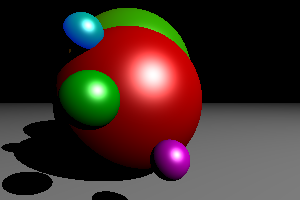
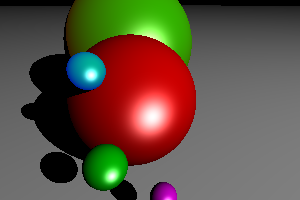
perspective change

diff --git a/raytracer_thoramature.py b/raytracer_thoramature.py
@@ -72,20 +72,35 @@ def nearest_intersected_object(objects, ray_origin, ray_direction):
     return nearest_object, min_distance
 
 class Camera:
-    def __init__(self, angle, ratio):
-        self.h = math.tan(angle / 2)
+    def __init__(self, angle, ratio, lookfrom, lookat, vup):
+        self.h = math.tan(math.radians(angle) / 2)
         # self.viewport_height = ratio * self.h
-        self.viewport_height = 1.0
+        self.viewport_height = 1.0 
         self.viewport_width = self.viewport_height * ratio
         self.focal_length = 1.0
 
-        self.origin = np.array([0,0,1])
-        self.horizontal = np.array([self.viewport_width, 0, 0])
-        self.vertical = np.array([0, self.viewport_height, 0])
-        self.lowerlc = self.origin - self.horizontal/2 - self.vertical/2 - np.array([0,0,self.focal_length])
+        # self.origin = np.array([0,0,1])
+        # self.horizontal = np.array([self.viewport_width, 0, 0])
+        # self.vertical = np.array([0, self.viewport_height, 0])
+        # self.lowerlc = self.origin - self.horizontal/2 - self.vertical/2 - np.array([0,0,self.focal_length])
+
+        w = lookfrom - lookat
+        w = w / np.linalg.norm(w)
+        u = np.cross(vup, w)
+        u = u / np.linalg.norm(u)
+        v = np.cross(w,u)
+
+        self.origin = lookfrom
+        self.horizontal = self.viewport_width * u
+        self.vertical = self.viewport_height * v
+        self.lowerlc = self.origin - self.horizontal/2 - self.vertical/2 - w
 
 
-cam = Camera(0, 300/200)
+
+
+
+
+cam = Camera(1, 300/200,   np.array([1,1,1]), np.array([0,0,-1]), np.array([0,1,0]))
 screen = (-cam.viewport_width, cam.viewport_height, cam.viewport_width, -cam.viewport_height)
 
 
@@ -138,7 +153,7 @@ for i in range(height):
         y = i/(height-1)
         x = j/(width-1)
         # screen is on origin
-        pixel = np.array([x, y, 0])
+        # pixel = np.array([x, y, 0])
         # origin = camera
         origin = cam.origin
         # direction = normalize(pixel - origin)
